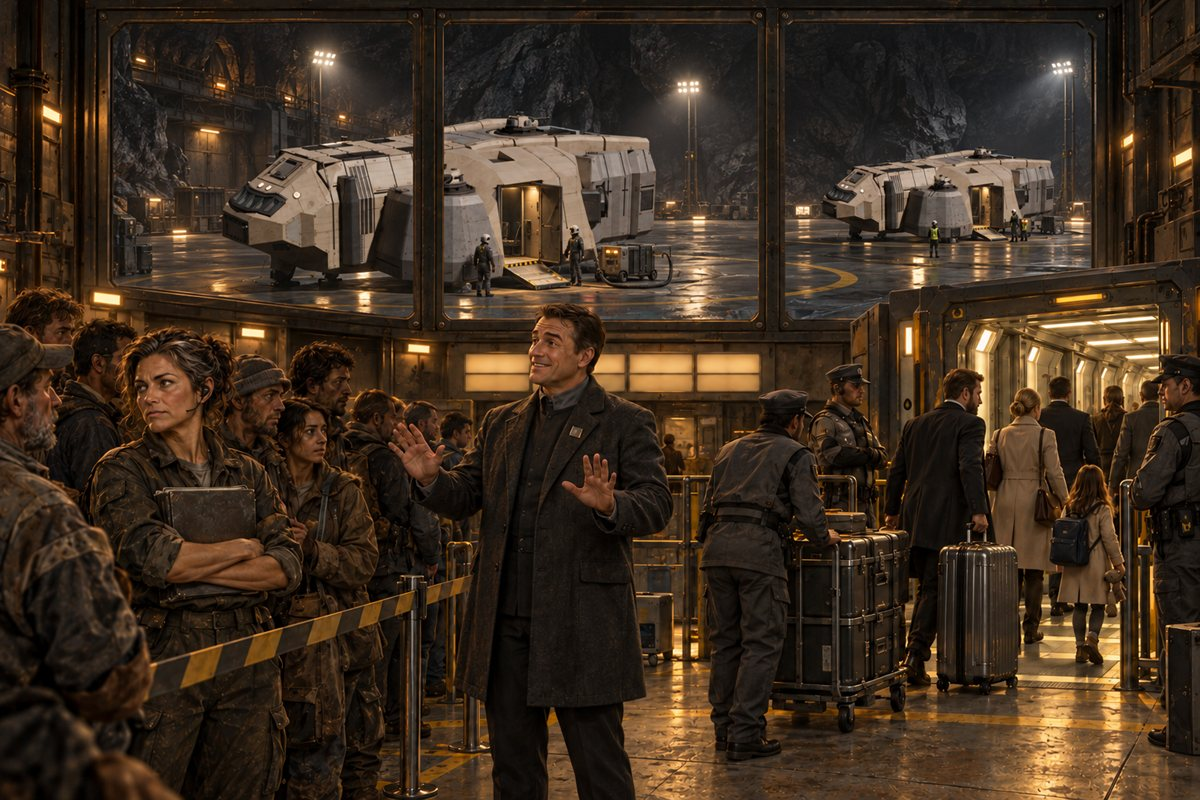
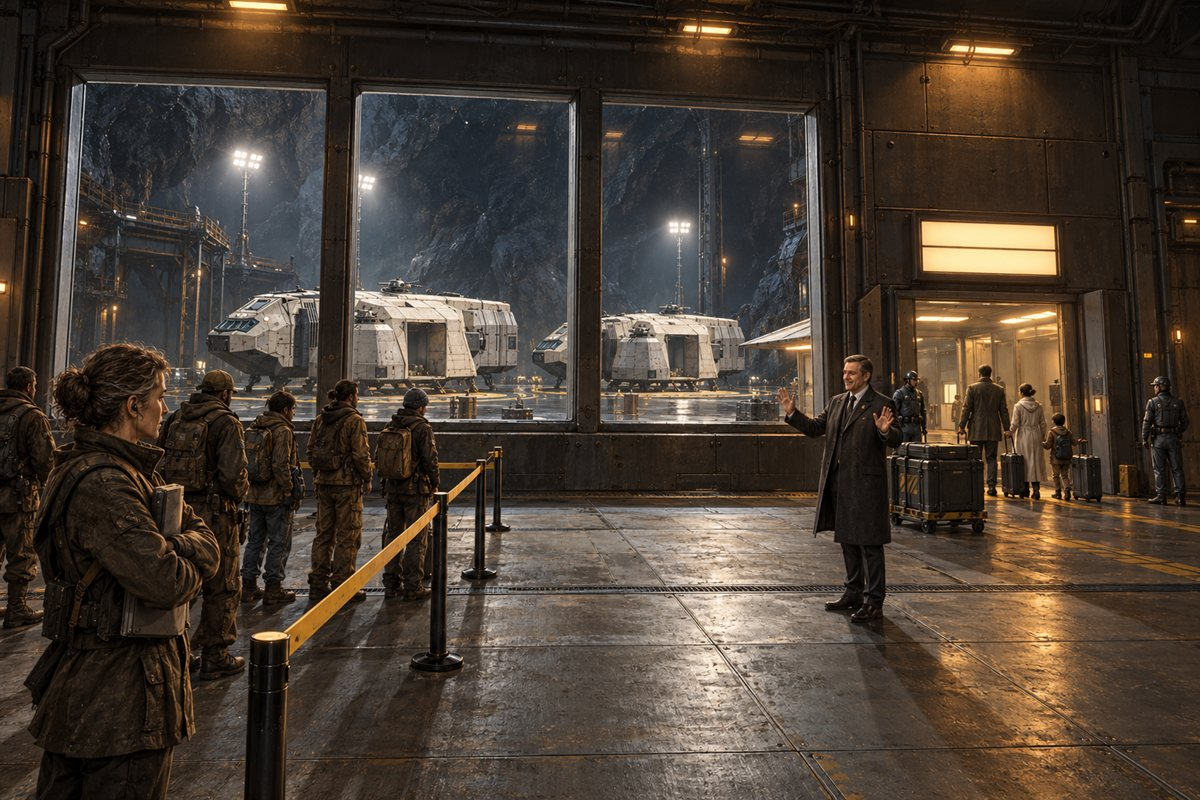
Prologue P2 over a modelled scene
The pasted Hermes boats came out lopsided and off their pads (owner,
2026-10-19), so p2_scene.py models the whole page in metres: the departure
gallery and its window, the launch bay with two real Hermes standing on their
pads, the guarded gate, and grey stand-ins for the manager, the miners behind
the tape, Castle, the guards and management's family. One repaint over it.

diff --git a/art-source/company-prologue/story-stills/guides/p2_scene.py b/art-source/company-prologue/story-stills/guides/p2_scene.py
@@ -1,0 +1,220 @@
+"""P2 (THE WRITING ON THE WALL) as a blocked-out scene: the guide the page is repainted over.
+
+    blender --background --factory-startup --python-exit-code 1 --python p2_scene.py --
+            --hermes <hermes.blend> --out <png> [--samples 32] [--percent 50]
+
+The owner found pasted boats lopsided and off their pads (2026-10-19), so the whole room is
+modelled in metres: the habitat's departure gallery, its wide window onto a launch bay cut in
+the rock, two real Hermes (hermes-cinematic) standing on their pads with gear down and the port
+door open, a guarded gate with a lit gangway on the right, and grey stand-ins for the people:
+the company manager reassuring the miners, the miners behind a tape barrier with Castle at the
+front, two guards, and management's family going through the gate with luggage. ImageGen paints
+the people from the stand-ins, keeping their size and place. Cycles on the processor.
+"""
+import math
+import sys
+from pathlib import Path
+
+import bpy
+from mathutils import Vector
+
+
+def args():
+    a = sys.argv[sys.argv.index("--") + 1:] if "--" in sys.argv else []
+    o = {"samples": "32", "percent": "50"}
+    for i in range(0, len(a), 2):
+        o[a[i].lstrip("-")] = a[i + 1]
+    return o
+
+
+def mat(name, rgb, emit=0.0, rough=.7):
+    m = bpy.data.materials.new(name)
+    m.use_nodes = True
+    b = m.node_tree.nodes["Principled BSDF"]
+    b.inputs["Base Color"].default_value = (*rgb, 1)
+    b.inputs["Roughness"].default_value = rough
+    if emit:
+        b.inputs["Emission Color"].default_value = (*rgb, 1)
+        b.inputs["Emission Strength"].default_value = emit
+    return m
+
+
+def box(name, lo, hi, m):
+    lo, hi = Vector(lo), Vector(hi)
+    bpy.ops.mesh.primitive_cube_add(size=1, location=(lo + hi) / 2)
+    ob = bpy.context.object
+    ob.name = name
+    ob.scale = hi - lo
+    ob.data.materials.append(m)
+    return ob
+
+
+def cyl(name, a, b, r, m, verts=12):
+    a, b = Vector(a), Vector(b)
+    d = b - a
+    bpy.ops.mesh.primitive_cylinder_add(vertices=verts, radius=r, depth=max(d.length, 1e-3), location=(a + b) / 2)
+    ob = bpy.context.object
+    ob.name = name
+    ob.rotation_euler = d.to_track_quat("Z", "Y").to_euler()
+    ob.data.materials.append(m)
+    return ob
+
+
+def ball(name, c, r, m):
+    bpy.ops.mesh.primitive_uv_sphere_add(segments=16, ring_count=8, radius=r, location=c)
+    ob = bpy.context.object
+    ob.name = name
+    ob.data.materials.append(m)
+    return ob
+
+
+def person(name, at, facing_deg, m, height=1.75, arms="down"):
+    """A stand-in in metres: +X its facing in its own frame, rotated to facing_deg about Z."""
+    k = height / 1.75
+    yaw = math.radians(facing_deg)
+    f, l = Vector((math.cos(yaw), math.sin(yaw), 0)), Vector((-math.sin(yaw), math.cos(yaw), 0))
+    base = Vector(at)
+
+    def p(x, y, z):
+        return base + f * (x * k) + l * (y * k) + Vector((0, 0, z * k))
+    for s in (1, -1):
+        cyl(name + " leg", p(0, .1 * s, .9), p(0, .11 * s, .05), .075 * k, m)
+    cyl(name + " torso", p(0, 0, .95), p(0, 0, 1.5), .17 * k, m)
+    ball(name + " head", p(.01, 0, 1.64), .11 * k, m)
+    ball(name + " nose", p(.11, 0, 1.64), .025 * k, mat("nose", (.04, .04, .04)))
+    for s in (1, -1):
+        sh = p(0, .2 * s, 1.45)
+        if arms == "open":            # palms raised outward, reassuring
+            el, ha = p(.22, .34 * s, 1.25), p(.38, .36 * s, 1.5)
+        elif arms == "folded":
+            el, ha = p(.12, .2 * s, 1.15), p(.2, -.08 * s, 1.24)
+        elif arms == "luggage":
+            el, ha = p(-.02, .26 * s, 1.15), p(-.05, .27 * s, .85)
+        else:
+            el, ha = p(.02, .24 * s, 1.15), p(.03, .25 * s, .85)
+        cyl(name + " arm", sh, el, .05 * k, m)
+        cyl(name + " forearm", el, ha, .045 * k, m)
+        ball(name + " hand", ha, .05 * k, m)
+
+
+def main(o):
+    bpy.ops.wm.read_factory_settings(use_empty=True)
+    sc = bpy.context.scene
+    steel = mat("gallery steel", (.12, .12, .13), rough=.5)
+    floor = mat("gallery floor", (.22, .2, .17), rough=.6)
+    rock = mat("bay rock", (.12, .11, .1), rough=.95)
+    pad = mat("pad", (.2, .2, .21), rough=.6)
+    stripe = mat("pad stripe", (.75, .55, .1))
+    glow = mat("panel glow", (1.0, .78, .45), emit=4.0)
+    crowd = mat("miners", (.3, .25, .2))
+    castle = mat("castle", (.38, .4, .33))
+    suit = mat("management", (.55, .55, .58))
+    guard = mat("guards", (.22, .25, .3))
+    luggage = mat("luggage", (.6, .6, .62), rough=.3)
+    tape = mat("tape", (.85, .7, .1))
+
+    # Gallery: floor, back wall (y = 0) with the window (x -11..3, z 1..7) and the gate (x 4.5..7.5).
+    box("gallery floor", (-16, -20, -.1), (14, 0, 0), floor)
+    for lo, hi in [((-16, 0, 0), (-11, .6, 9)), ((3, 0, 0), (4.5, .6, 9)), ((7.5, 0, 0), (14, .6, 9)),
+                   ((-11, 0, 0), (3, .6, 1)), ((-11, 0, 7), (3, .6, 9)), ((4.5, 0, 3.2), (7.5, .6, 9))]:
+        box("gallery wall", lo, hi, steel)
+    for x in (-6.3, -1.6):                              # mullions
+        box("mullion", (x - .25, -.1, 1), (x + .25, .7, 7), steel)
+    box("ceiling", (-16, -20, 9), (14, .6, 9.4), steel)
+    box("side wall", (13.6, -20, 0), (14, 0, 9), steel)
+    box("departures board", (4.7, -.05, 3.7), (7.3, 0, 4.7), glow)
+    # Gate: a lit gangway running back from the right of the window toward the bay.
+    box("gangway floor", (4.5, .6, 0), (7.5, 14, .1), floor)
+    box("gangway roof", (4.5, .6, 3.2), (7.5, 14, 3.4), steel)
+    box("gangway wall", (7.5, .6, 0), (7.7, 14, 3.4), steel)
+    box("gangway glow", (5.0, 3, 3.1), (7.0, 12, 3.15), glow)
+    for x in (4.1, 7.9):
+        box("gate post", (x - .2, -.6, 0), (x + .2, 0, 3.4), steel)
+
+    # Launch bay beyond the glass: rock walls, two pads, the boats.
+    box("bay floor", (-30, .6, -.1), (30, 60, 0), mat("bay floor", (.16, .16, .17), rough=.4))
+    box("bay back", (-30, 58, 0), (30, 60, 25), rock)
+    box("bay left", (-30, .6, 0), (-28, 60, 25), rock)
+    box("bay roof", (-30, .6, 22), (30, 60, 25), rock)
+    hermes_at = [((-6.5, 9.5, 0), -30.0), ((0.5, 17, 0), 200.0)]
+    for i, (at, hdg) in enumerate(hermes_at):
+        cyl("pad %d" % i, (at[0], at[1], 0), (at[0], at[1], .03), 7.0, pad, 48)
+        cyl("pad ring %d" % i, (at[0], at[1], .03), (at[0], at[1], .05), 6.2, stripe, 48)
+        cyl("pad inner %d" % i, (at[0], at[1], .05), (at[0], at[1], .06), 5.9, pad, 48)
+    for x, y in ((-14, 22), (6, 26), (-2, 6)):          # flood masts round the pads
+        cyl("mast", (x, y, 0), (x, y, 12), .2, steel)
+        bpy.ops.object.light_add(type="SPOT", location=(x, y - .8, 12.6))   # clear of the mast
+        lamp = bpy.context.object
+        lamp.data.energy, lamp.data.spot_size = 250000, math.radians(80)
+        lamp.data.color = (1.0, .9, .75)
+        lamp.rotation_euler = (Vector((-3, 13, 0)) - lamp.location).to_track_quat("-Z", "Y").to_euler()
+
+    hb = o["hermes"]
+    for i, (at, hdg) in enumerate(hermes_at):
+        with bpy.data.libraries.load(hb, link=False) as (src, dst):
+            dst.collections = ["HERMES"]
+        col = dst.collections[0]
+        sc.collection.children.link(col)
+        root = next(ob for ob in col.all_objects if ob.name.startswith("HERMES | root"))
+        ctl = next((ob for ob in col.all_objects if ob.name.startswith("Hermes control")), None)
+        if ctl is not None:
+            ctl["gear_up"], ctl["door_port"] = 0.0, 1.0 if i == 0 else 0.0
+            ctl.update_tag()
+        mpu = root.get("metres_per_unit", .11)
+        root.scale = (mpu,) * 3
+        root.rotation_euler = (0, 0, math.radians(hdg))
+        root.location = at
+        bpy.context.view_layer.update()
+        soles = [ob.matrix_world.translation.z for ob in col.all_objects if "sole" in ob.name.lower()]
+        if soles:                                       # stand the gear on the pad
+            root.location.z += .06 - min(soles)
+        bpy.context.view_layer.update()
+
+    # People. Camera stands at (-2, -13, 1.65) looking at the window.
+    person("manager", (.2, -8.0, 0), 205, suit, 1.8, "open")
+    for j, (x, y) in enumerate([(-5.2, -9.4), (-4.4, -8.2), (-6.2, -7.6), (-4.0, -6.8), (-5.4, -6.2),
+                                (-6.8, -5.6), (-3.8, -5.4), (-7.2, -8.6), (-7.6, -6.6)]):
+        person("miner %d" % j, (x, y, 0), -10 + (j % 3) * 8, crowd, 1.65 + .05 * (j % 3))
+    person("Castle", (-3.6, -10.4, 0), 25, castle, 1.66, "folded")
+    for y in (-11.0, -8.6, -6.2, -3.8):                 # stanchions with tape between
+        cyl("stanchion", (-2.8, y, 0), (-2.8, y, 1.0), .04, steel)
+    cyl("tape", (-2.8, -11.0, .95), (-2.8, -3.8, .95), .03, tape)
+    person("guard L", (3.6, -1.4, 0), -80, guard, 1.82)
+    person("guard R", (8.4, -1.4, 0), -100, guard, 1.8)
+    person("admin", (5.6, -.4, 0), 90, suit, 1.78, "luggage")
+    person("admin wife", (6.5, -1.2, 0), 90, suit, 1.68, "luggage")
+    person("admin child", (6.1, -2.2, 0), 90, suit, 1.15)
+    box("suitcase", (5.3, -.7, 0), (5.8, -.4, .75), luggage)
+    box("suitcase", (6.8, -1.6, 0), (7.3, -1.3, .7), luggage)
+    box("trolley", (2.0, -4.2, 0), (3.4, -3.2, 1.1), luggage)
+
+    # Interior light: warm lamps under the ceiling, brighter at the gate.
+    for x, y, e in ((-5, -8, 500), (1, -8, 400), (6, -2, 900)):
+        bpy.ops.object.light_add(type="AREA", location=(x, y, 8.6))
+        lamp = bpy.context.object
+        lamp.data.energy, lamp.data.size, lamp.data.color = e, 3.0, (1.0, .78, .55)
+    world = bpy.data.worlds.new("w")
+    world.use_nodes = True
+    world.node_tree.nodes["Background"].inputs["Color"].default_value = (.01, .01, .012, 1)
+    sc.world = world
+
+    cam = bpy.data.objects.new("cam", bpy.data.cameras.new("cam"))
+    sc.collection.objects.link(cam)
+    sc.camera = cam
+    cam.location = (-2.0, -13.0, 1.65)
+    cam.rotation_euler = (Vector((-1.2, 0, 3.0)) - cam.location).to_track_quat("-Z", "Y").to_euler()
+    cam.data.lens, cam.data.clip_end = 20, 500
+    sc.render.engine = "CYCLES"
+    sc.cycles.device = "CPU"
+    sc.cycles.samples = int(o["samples"])
+    sc.cycles.use_denoising = True
+    sc.render.resolution_x, sc.render.resolution_y = 1536, 1024
+    sc.render.resolution_percentage = int(o["percent"])
+    sc.render.image_settings.file_format = "PNG"
+    sc.view_settings.view_transform = "AgX"
+    sc.render.filepath = str(Path(o["out"]).resolve())
+    bpy.ops.render.render(write_still=True)
+    print("GUIDE p2-scene", flush=True)
+
+
+main(args())
